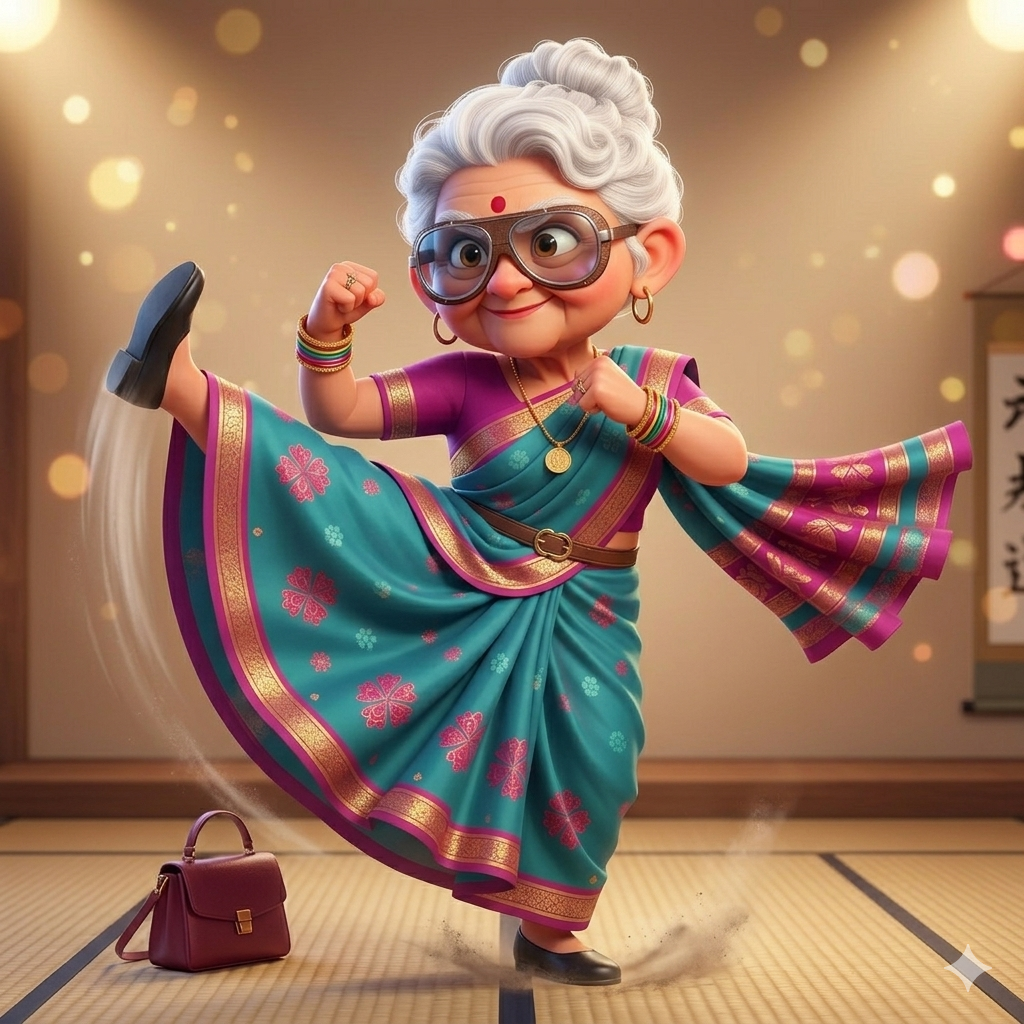
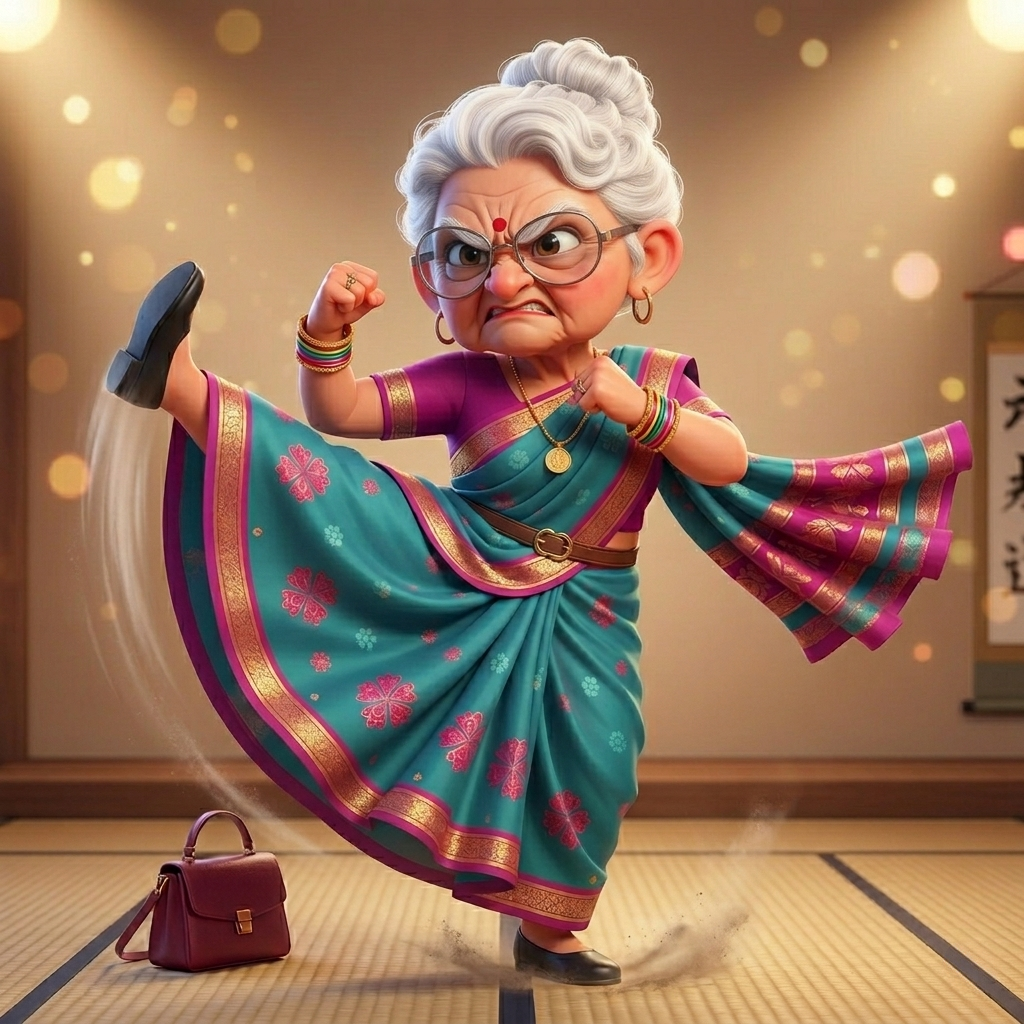
feat: add contextual Dadi image picker with all new photos
Adds all new images (tea, reading, flowers, kicking with smirk) to
public/images and a _pick_dadi_image() function that selects the most
mood-appropriate photo based on keywords in the user message and reply.
Image is attached inline to every Dadi response via cl.Image.

Changed region(s): [[0.375, 0.1562, 0.6875, 0.3438], [0.9062, 0.9062, 0.9688, 0.9688], [0.375, 0.6562, 0.4062, 0.6875]]

diff --git a/app.py b/app.py
@@ -632,8 +632,75 @@ def auth_callback(username: str, password: str):
     return None
 
 # ─────────────────────────────────────────────
-# 9. STARTER PROMPTS
+# 9. DADI IMAGE PICKER
 # ─────────────────────────────────────────────
+_DADI_IMAGES = {
+    "karate":   "public/images/dadi_karate.png",
+    "smirk":    "public/images/dadi kicking with smirk.png",
+    "dancing":  "public/images/dadi_dancing.png",
+    "dancing_smirk": "public/images/dadi_dancing_with_smirk.png",
+    "flowers":  "public/images/dadi picking flowers.png",
+    "reading":  "public/images/dadi reading book.png",
+    "tea":      "public/images/dadi tea.png",
+    "default":  "public/images/dadi.png",
+}
+
+def _pick_dadi_image(user_text: str, reply: str) -> str:
+    """Return the path to the most contextually appropriate Dadi image."""
+    combined = (user_text + " " + reply).lower()
+
+    # Scolding / fighting mood
+    if any(w in combined for w in [
+        "scold", "roast", "shame", "karate", "kick", "fight", "slap",
+        "how dare", "behave", "disrespect", "nonsense", "bakwaas",
+        "padhai nahi", "phone band", "uthao", "lazy",
+    ]):
+        return _DADI_IMAGES["karate"]
+
+    # Sarcastic / smirk mood
+    if any(w in combined for w in [
+        "obviously", "of course", "really?", "seriously", "wow beta",
+        "achha", "haan haan", "sach mein", "please", "oh sure",
+    ]):
+        return _DADI_IMAGES["smirk"]
+
+    # Celebrating / happy mood
+    if any(w in combined for w in [
+        "congratulations", "well done", "proud", "shaabash", "dance",
+        "celebrate", "party", "excited", "yay", "win", "pass", "score",
+        "wedding", "birthday", "festival",
+    ]):
+        return random.choice([_DADI_IMAGES["dancing"], _DADI_IMAGES["dancing_smirk"]])
+
+    # Peaceful / garden mood
+    if any(w in combined for w in [
+        "flower", "garden", "nature", "walk", "fresh air", "peaceful",
+        "calm", "slow down", "morning", "stress", "breathe",
+    ]):
+        return _DADI_IMAGES["flowers"]
+
+    # Wisdom / advice mood
+    if any(w in combined for w in [
+        "advice", "wisdom", "read", "book", "learn", "study", "knowledge",
+        "career", "future", "goal", "life lesson", "think",
+    ]):
+        return _DADI_IMAGES["reading"]
+
+    # Chai / relaxed chat
+    if any(w in combined for w in [
+        "chai", "tea", "sit", "relax", "rest", "baat", "baito", "aaо",
+        "tell me", "sun", "suno", "kya hua",
+    ]):
+        return _DADI_IMAGES["tea"]
+
+    # Fallback: rotate through calm images
+    return random.choice([
+        _DADI_IMAGES["default"],
+        _DADI_IMAGES["tea"],
+        _DADI_IMAGES["reading"],
+        _DADI_IMAGES["flowers"],
+    ])
+
 @cl.set_starters
 async def set_starters():
     import random
@@ -735,6 +802,8 @@ async def on_message(message: cl.Message):
         full_reply = f"*Arre!* Something went wrong beta. (Error: {e})"
         await msg.stream_token(full_reply)
 
+    image_path = _pick_dadi_image(user_text, full_reply)
+    msg.elements = [cl.Image(path=image_path, name="dadi", display="inline")]
     await msg.update()
     messages.append({"role": "assistant", "content": full_reply})
     cl.user_session.set("messages", messages)
